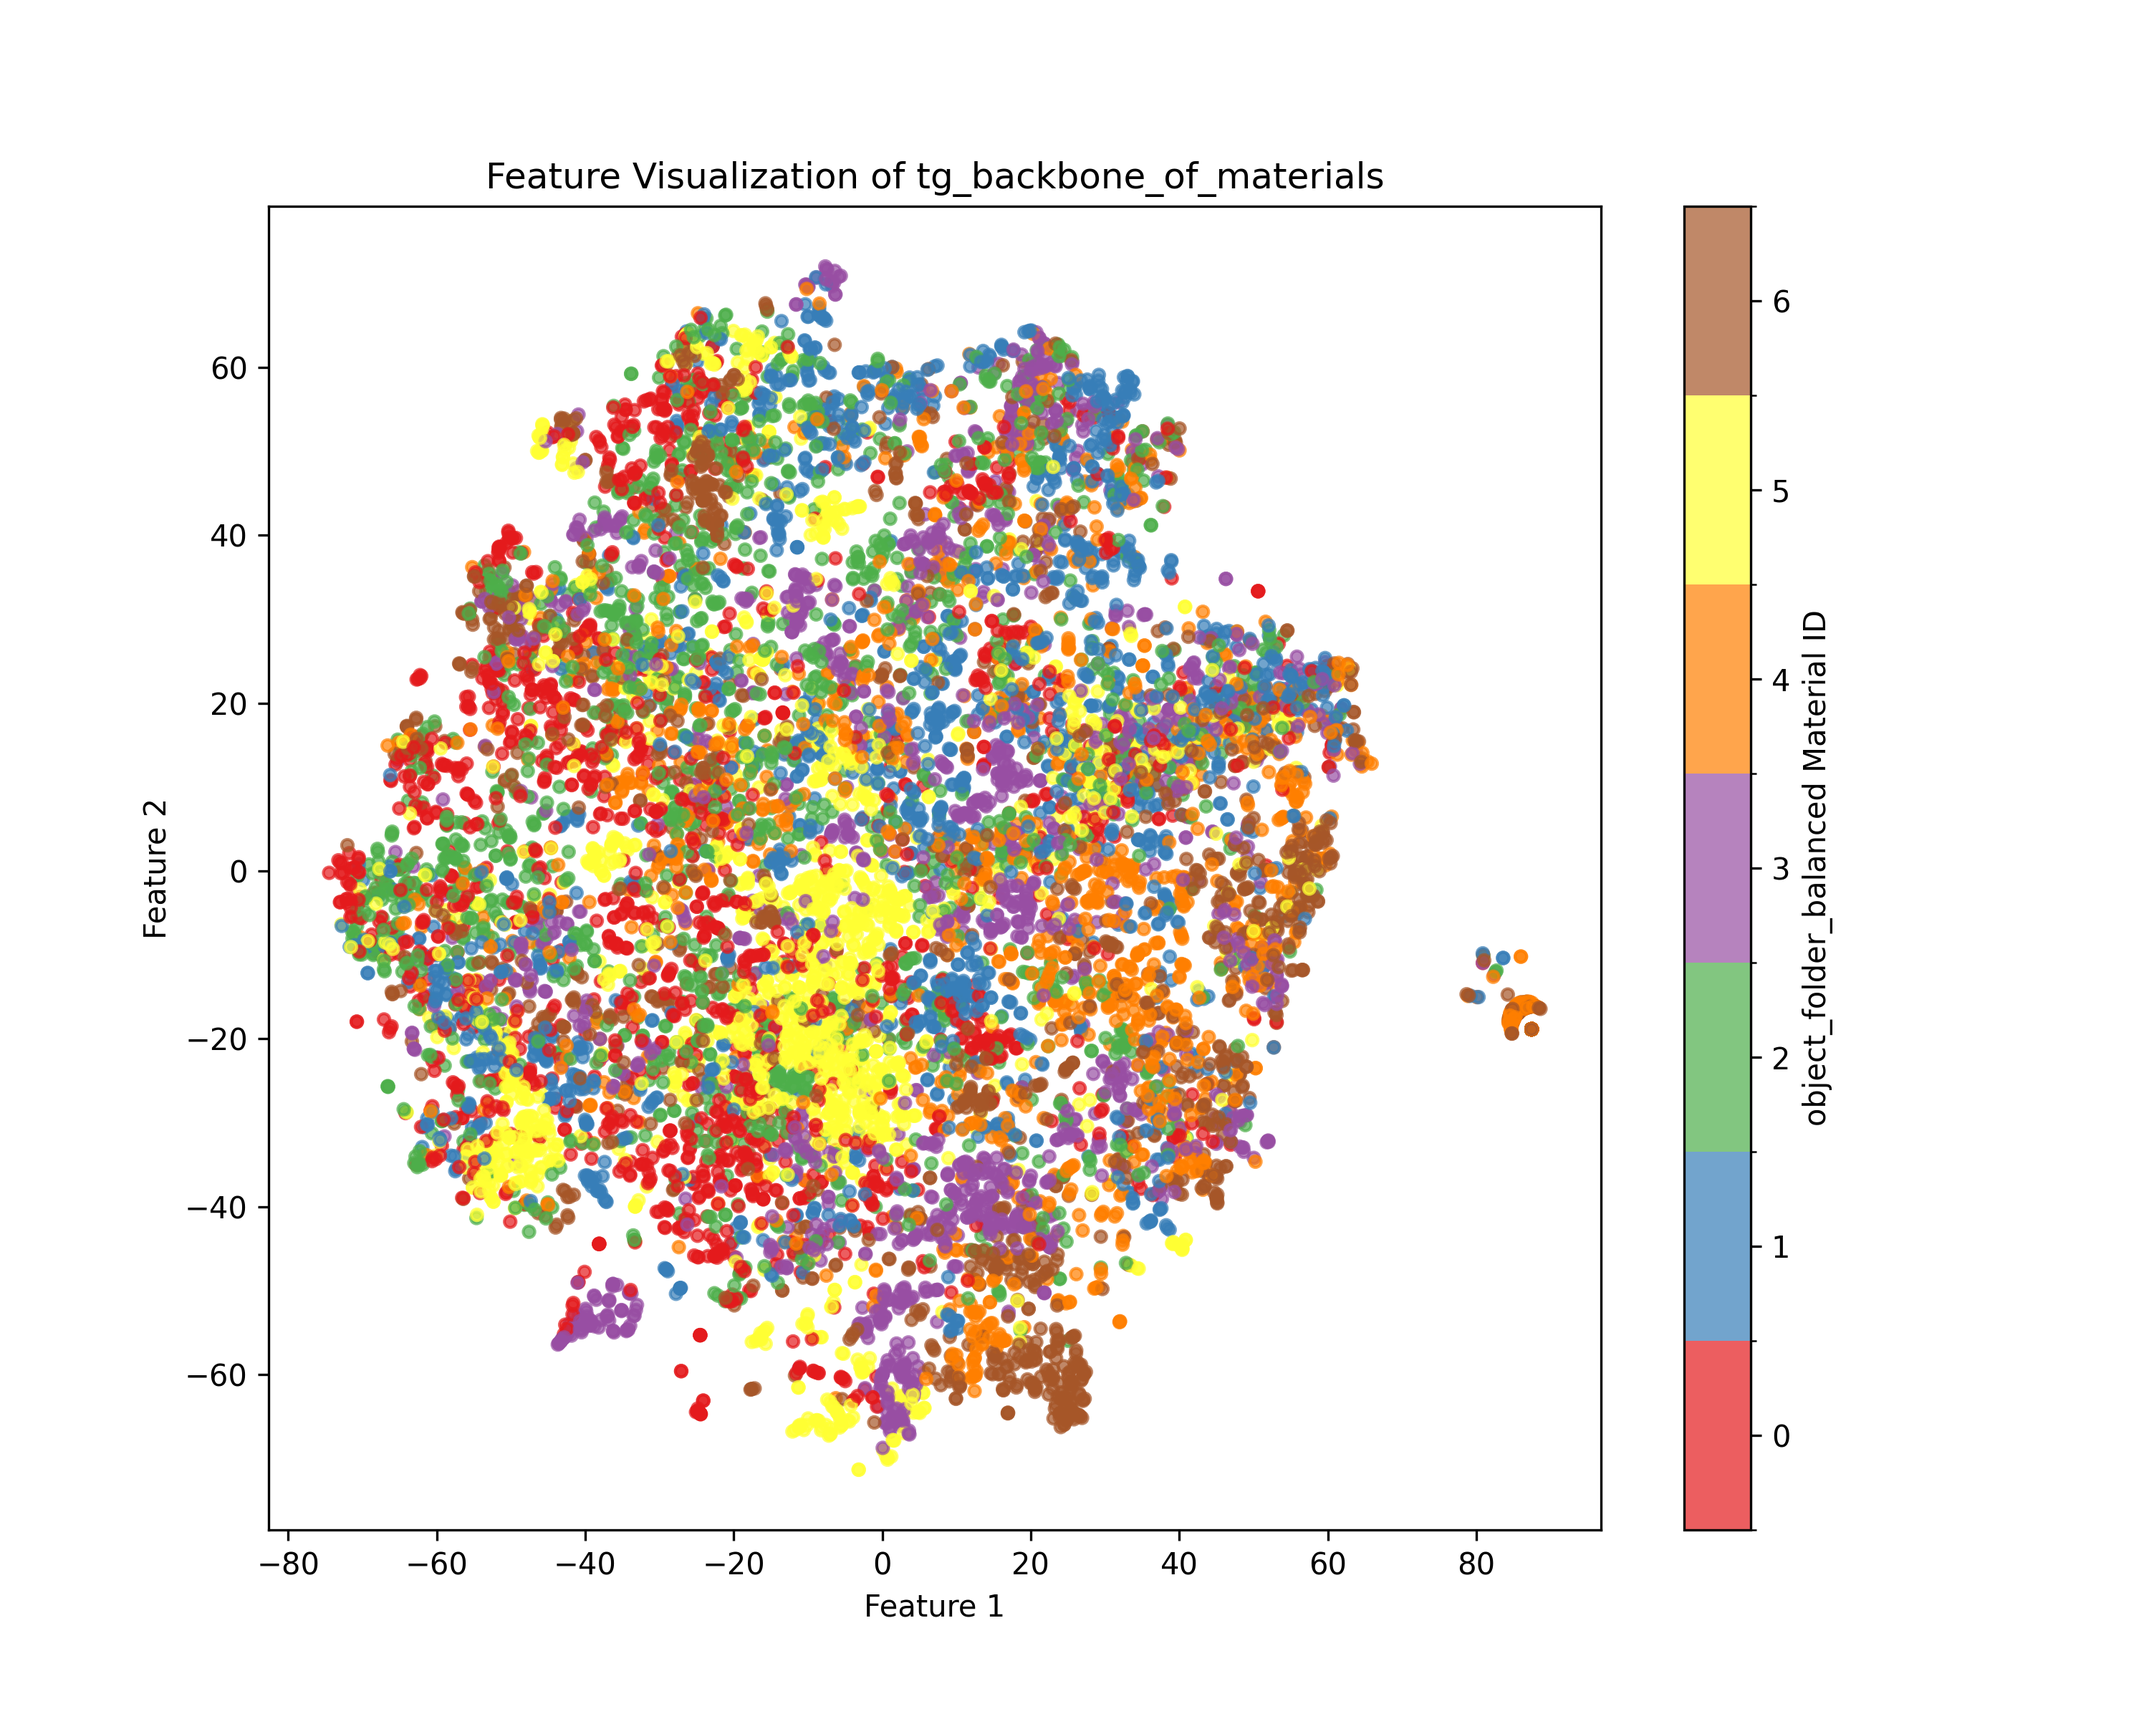
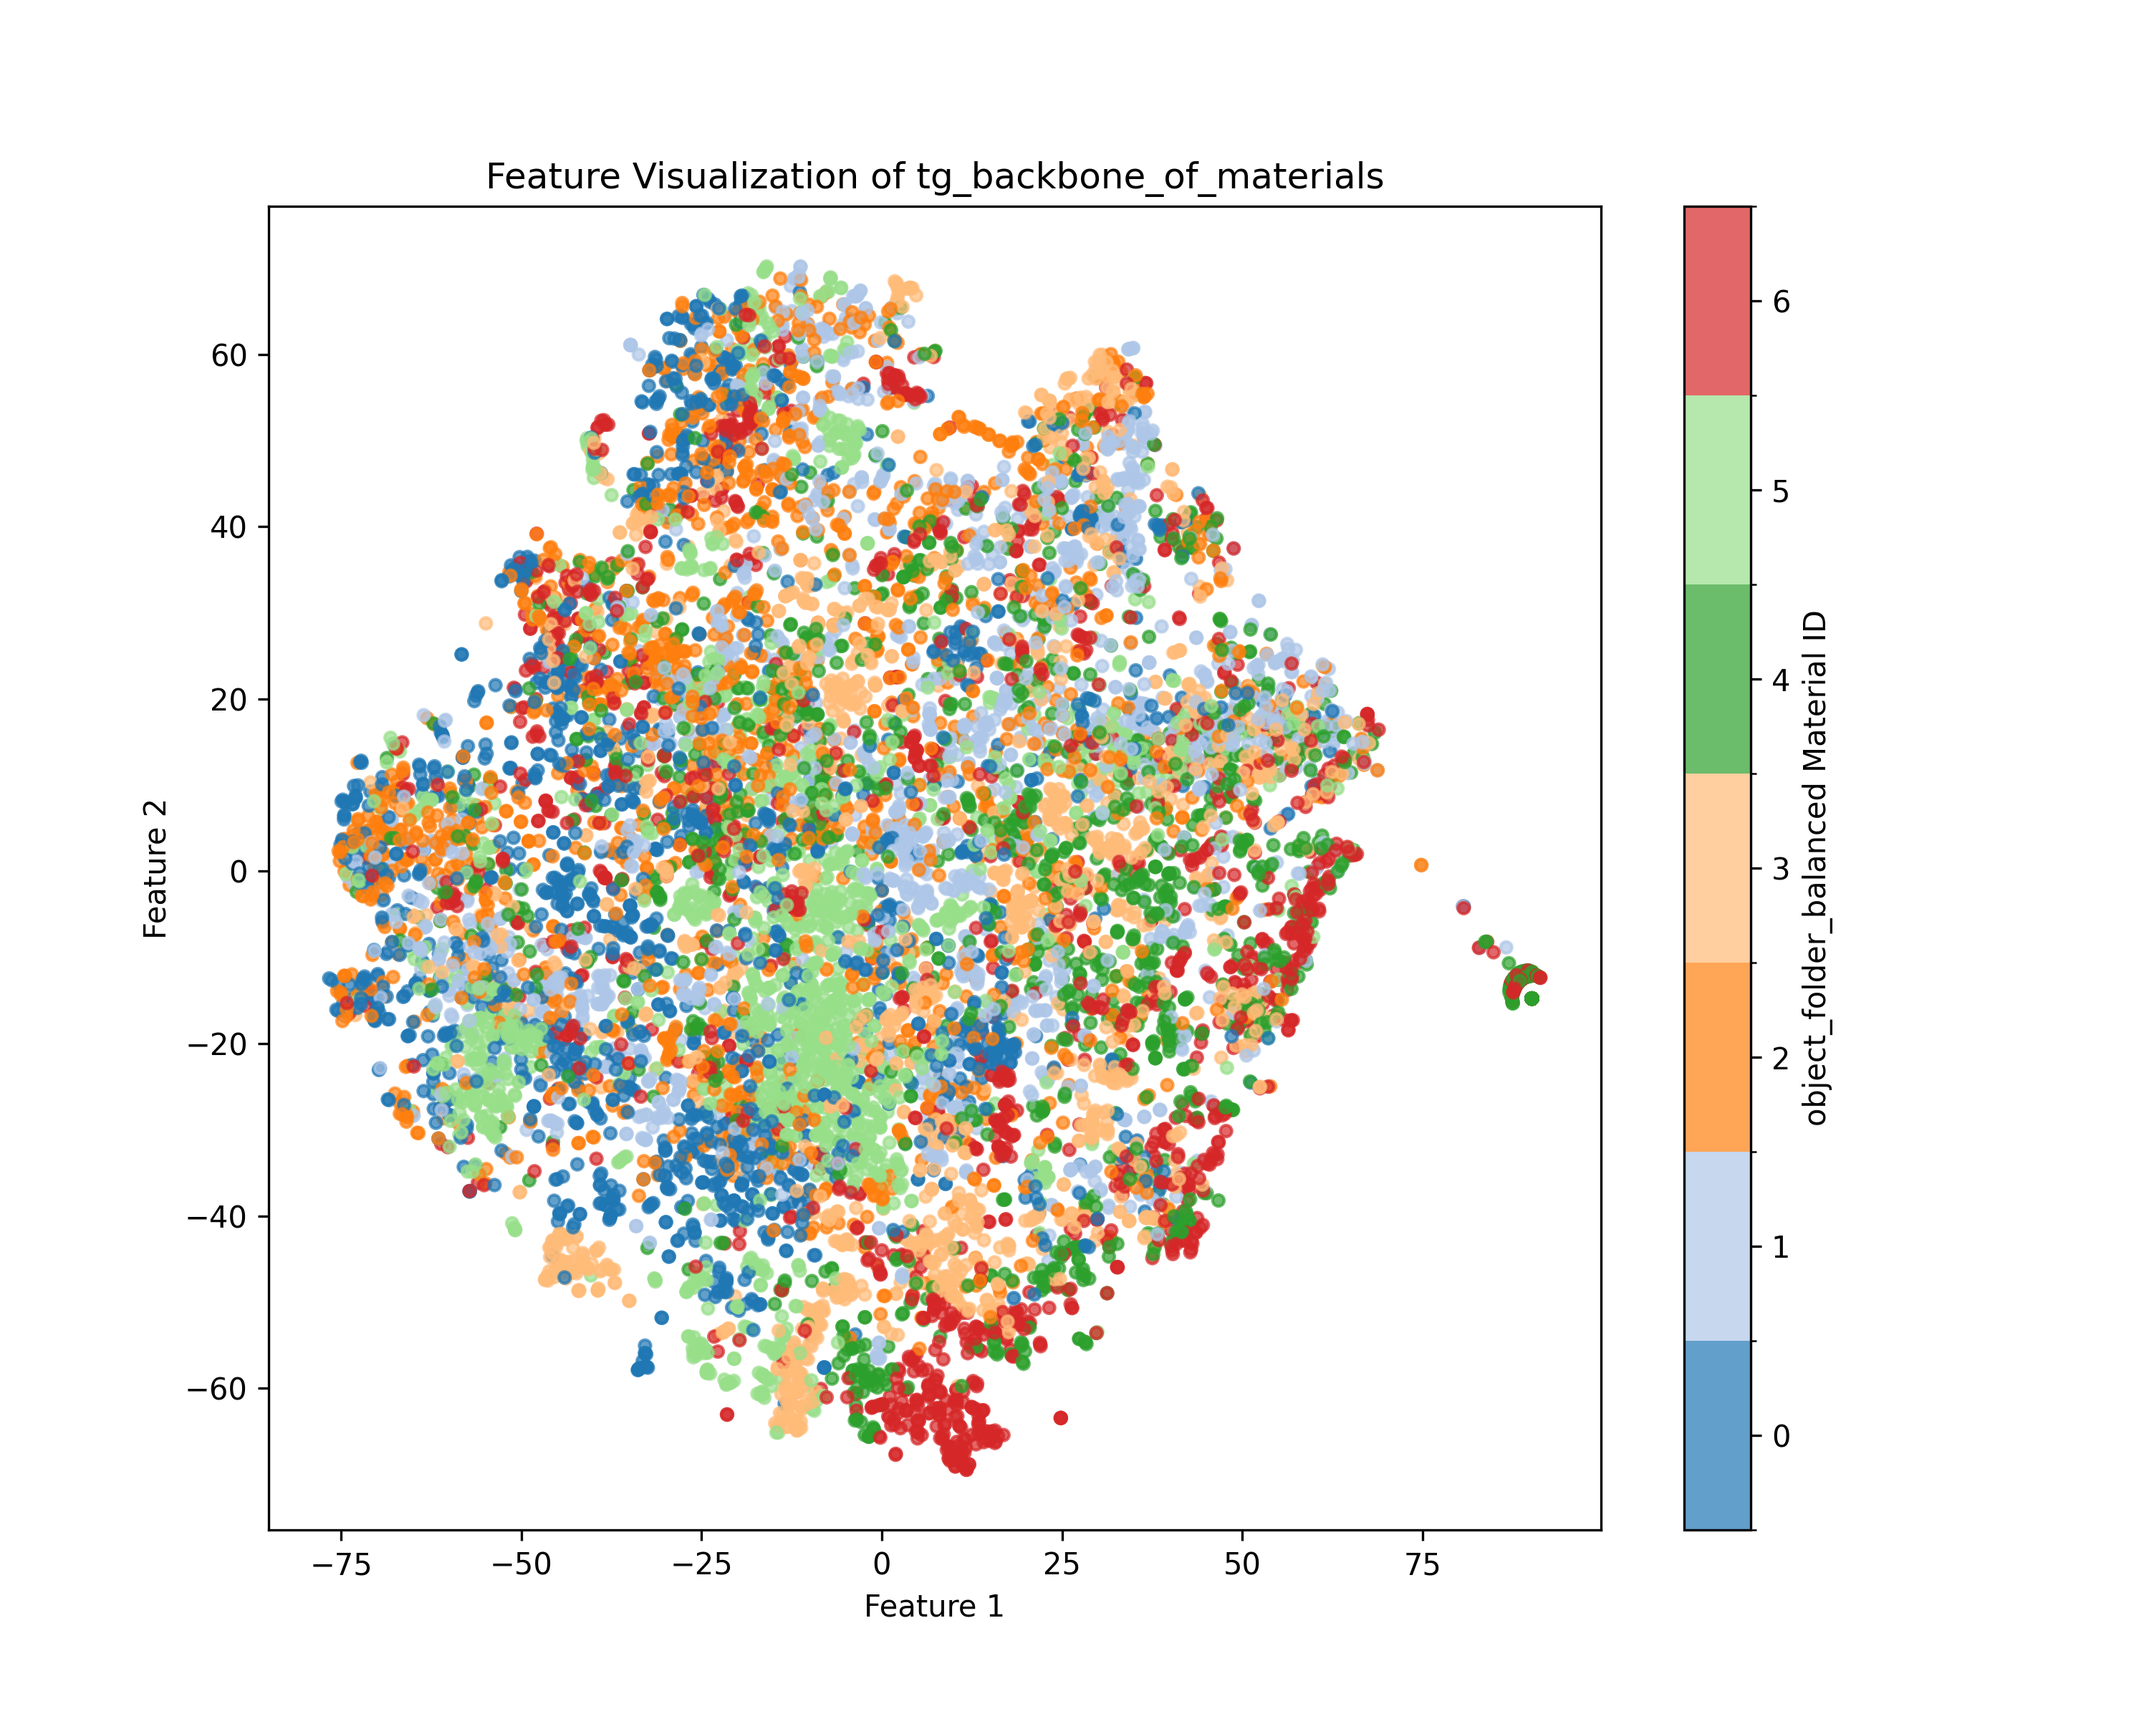
Code refactoring + support for different num_classes

diff --git a/Visuo-tactile-contrastive-learning/test_CMC_touch.py b/Visuo-tactile-contrastive-learning/test_CMC_touch.py
@@ -42,6 +42,14 @@ def parse_option():
     material_dataset = "of" if "object_folder" in opt.dataset else "tg"
     opt.exp_name = f'{backbone_dataset}_backbone_{material_dataset}_materials'
 
+    # Set the number of materials
+    if "object_folder" in opt.dataset:
+        opt.num_classes = 7
+    elif "touch_and_go" in opt.dataset:
+        opt.num_classes = 20
+    else:
+        raise ValueError(f'num materials not set for dataset {opt.dataset}')
+
     return opt
 
 
@@ -54,7 +62,7 @@ def get_test_loader(args):
         mean=(0.485, 0.456, 0.406)
         std=(0.229, 0.224, 0.225)
     else:
-        raise NotImplemented('view not implemented {}'.format(args.view))
+        raise ValueError('view not implemented {}'.format(args.view))
     
     normalize = transforms.Normalize(mean=mean, std=std)
     train_transform = transforms.Compose([
@@ -95,6 +103,30 @@ def get_model(args):
 
     return model
 
+def load_model(model, ckpt_path):
+    """Load the model from the checkpoint"""
+
+    print(f"Loading model from {ckpt_path}")
+    checkpoint = torch.load(ckpt_path, weights_only=False)
+    lightning_ckpt = {}
+
+    if ".ckpt" in ckpt_path:
+        lightning_ckpt = checkpoint['state_dict']
+        model.load_state_dict(lightning_ckpt, strict=False) # lightning format
+    else:
+        # Creating an articial checkpoint to add "model." to every key
+        for k in checkpoint['model']:
+            new_k = "model." + k
+            new_k = new_k.replace("module.", "")
+            lightning_ckpt[new_k] = checkpoint['model'][k]
+        model.load_state_dict(lightning_ckpt)
+
+    count = 0
+    for k in lightning_ckpt:
+        if k in model.state_dict():
+            count += 1 
+    print(f"Loaded {count} keys from the checkpoint")
+
 
 def test():
     """
@@ -114,51 +146,11 @@ def test():
                         devices=[0],
                         strategy="auto")
     
-    # Test from the checkpoint
-    print(f"Loading model from {args.ckpt_path}")
-    checkpoint = torch.load(args.ckpt_path, weights_only=False)
-    lightning_ckpt = {}
-    if ".ckpt" in args.ckpt_path:
-        lightning_ckpt = checkpoint['state_dict']
-        model.load_state_dict(lightning_ckpt, strict=False) # lightning format
-    else:
-        # Creating an articial checkpoint to add "model." to every key
-        for k in checkpoint['model']:
-            new_k = "model." + k
-            new_k = new_k.replace("module.", "")
-            lightning_ckpt[new_k] = checkpoint['model'][k]
-        model.load_state_dict(lightning_ckpt)
-
-    count = 0
-    for k in lightning_ckpt:
-        if k in model.state_dict():
-            count += 1 
-    print(f"Loaded {count} keys from the checkpoint")
-
+    load_model(model, args.ckpt_path)
     model.eval()
 
     # Perform the test
     trainer.test(model, test_loader)
-    
-    # check for checkpoints to resume from
-    # ckpt_path = ""
-    # if len(os.listdir(args.model_folder)) > 0:
-    #     max_epoch = 0
-    #     max_epoch_file = ""
-    #     for file in os.listdir(args.model_folder):
-    #         if file.endswith(".ckpt"):
-    #             epoch = int(file.split("_")[-1])
-    #             if epoch > max_epoch:
-    #                 max_epoch = epoch
-    #                 max_epoch_file = file
-    #     ckpt_path = os.path.join(args.model_folder, max_epoch_file)
-    
-    # if os.path.exists(ckpt_path):
-    #     trainer.fit(model, train_loader, ckpt_path=ckpt_path)
-    #     print(f"Resuming from checkpoint {ckpt_path}")
-    # else:
-    #     trainer.fit(model, train_loader)
-        
 
 
 if __name__ == '__main__':

diff --git a/Visuo-tactile-contrastive-learning/models/resnet.py b/Visuo-tactile-contrastive-learning/models/resnet.py
@@ -477,15 +477,21 @@ class LightningContrastiveNet(L.LightningModule):
             tsne = TSNE(n_components=2, random_state=42)
             features_2d = tsne.fit_transform(features_pooled)
 
-            # Define boundaries and normalization for 7 discrete labels (0–6)
-            bounds = np.linspace(-0.5, 6.5, 8)  # Creates edges for 7 bins
-            norm = mcolors.BoundaryNorm(bounds, 7)
+            # Setting color mapping for labels
+            num_classes = self.args.num_classes
+            base_cmap = plt.get_cmap('tab20')
+            colors = base_cmap(np.linspace(0, 1, 20))[:num_classes]
+            cmap = mcolors.ListedColormap(colors)
+
+            # Boundaries for color mapping
+            bounds = np.linspace(-0.5, num_classes - 0.5, num_classes + 1)
+            norm = mcolors.BoundaryNorm(bounds, cmap.N)
 
             # Plotting
             os.makedirs('plots', exist_ok=True)
             plt.figure(figsize=(10, 8))
-            scatter = plt.scatter(features_2d[:, 0], features_2d[:, 1], c=all_labels, cmap='Set1', norm=norm, alpha=0.7, s=15)
-            plt.colorbar(scatter, ticks=range(7), label=f'{self.args.dataset} Material ID')
+            scatter = plt.scatter(features_2d[:, 0], features_2d[:, 1], c=all_labels, cmap=cmap, norm=norm, alpha=0.7, s=15)
+            plt.colorbar(scatter, ticks=range(num_classes), label=f'{self.args.dataset} Material ID')
             plt.xlabel('Feature 1')
             plt.ylabel('Feature 2')
             plt.title(f'Feature Visualization of {self.args.exp_name}')
